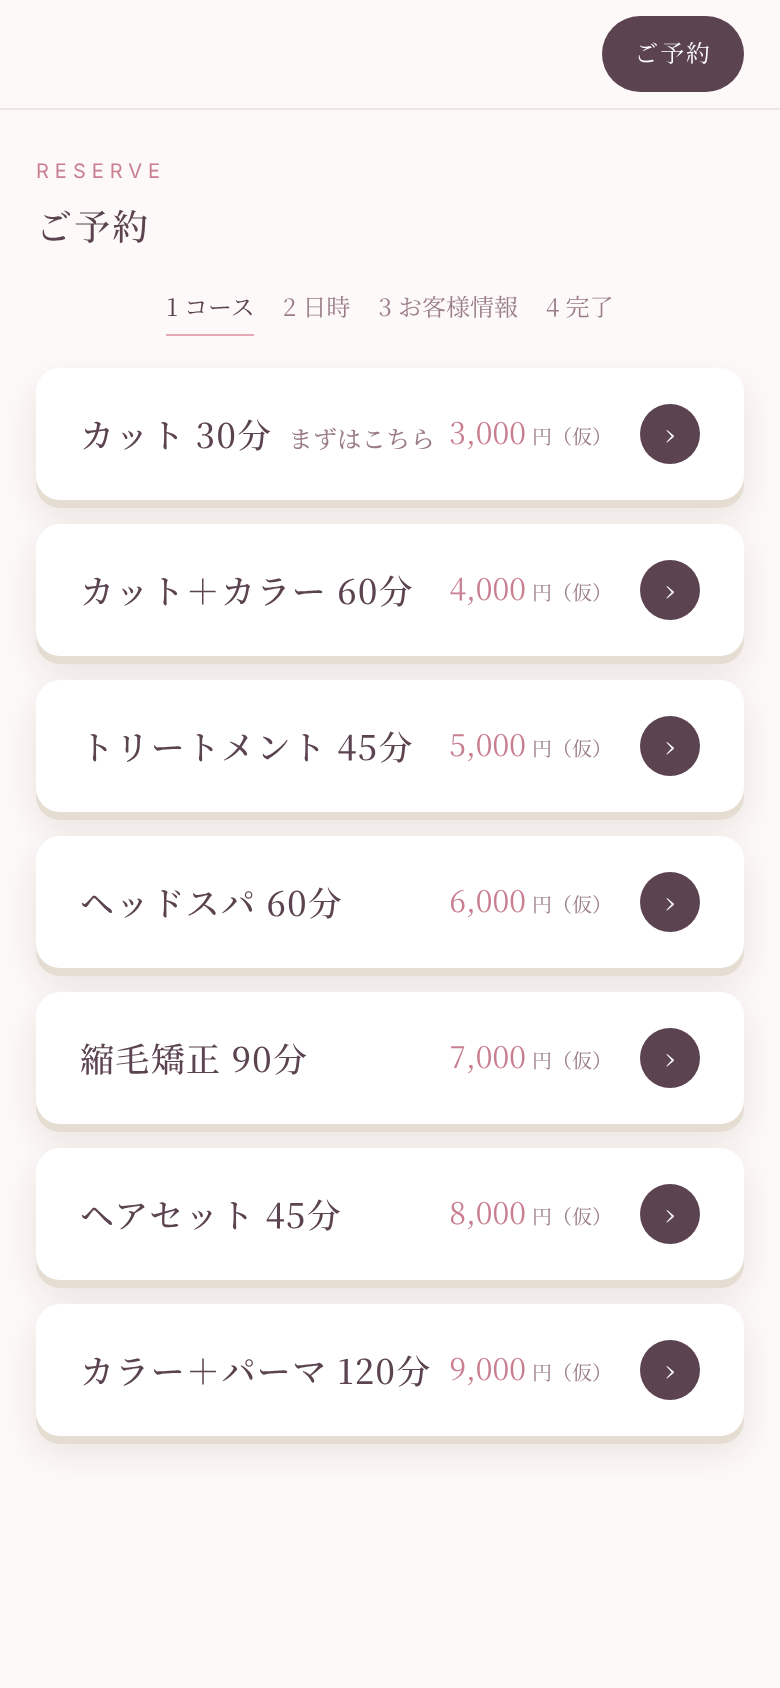
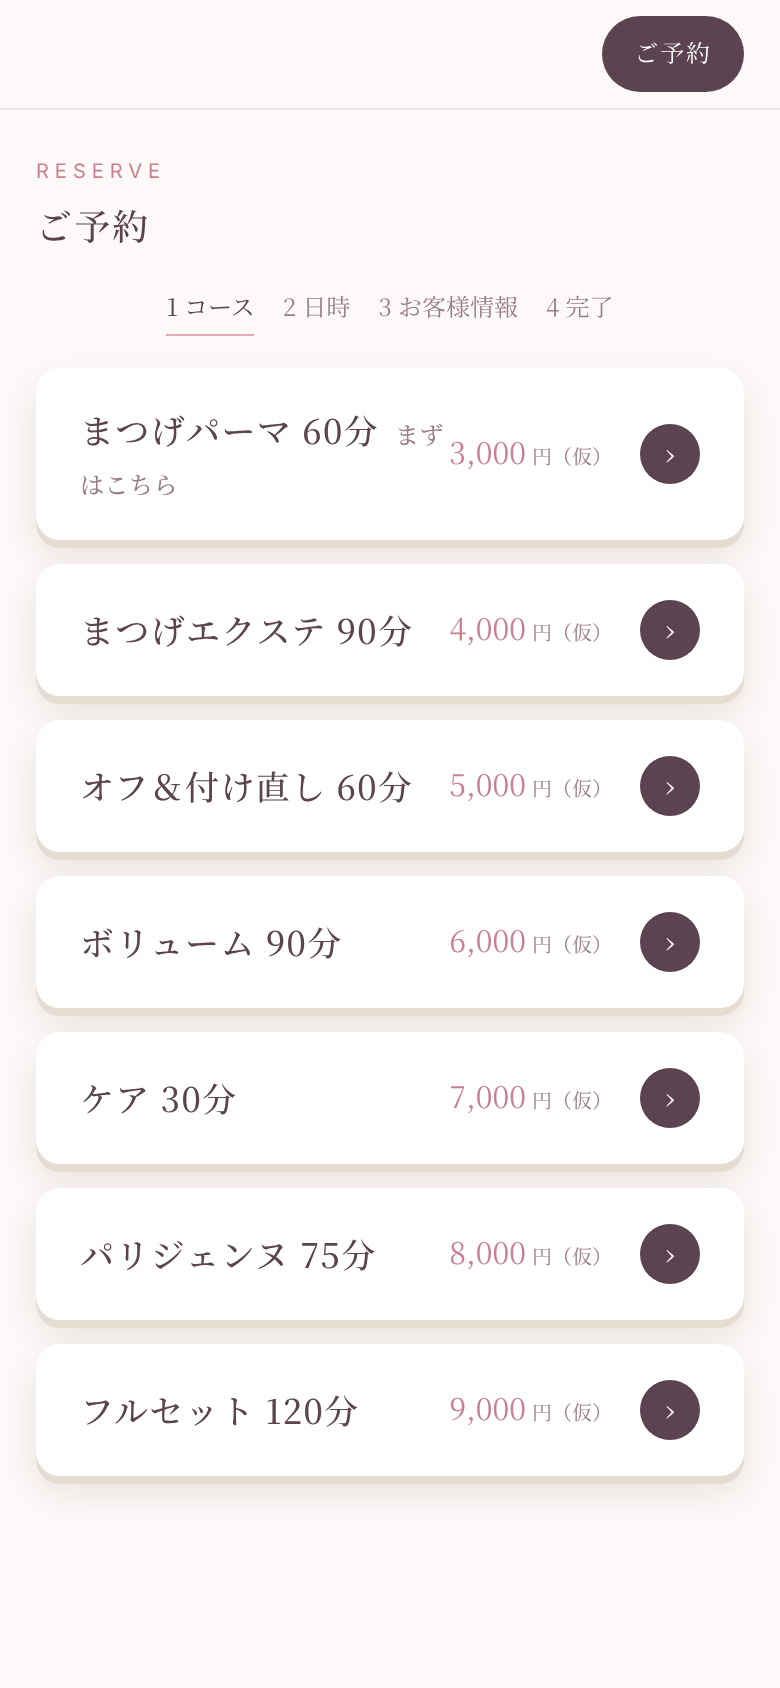
ヒーローを前のデザインに戻し、業種メニューを画面と一致させる
Claude-Session: https://claude.ai/code/session_01BNgnZGZcBYmD2Z2Ls9jJmq

Changed region(s): [[0.0615, 0.2156, 0.9538, 0.8934]]

diff --git a/index.html b/index.html
@@ -56,23 +56,49 @@ section{padding:96px 0}
 .ind-tabs{display:flex;border-bottom:1px solid var(--line);margin-bottom:0}
 .ind-tabs button{flex:1;background:none;border:0;border-bottom:3px solid transparent;padding:16px 8px;font:inherit;font-size:15px;font-weight:700;color:var(--sub);cursor:pointer;letter-spacing:.04em}
 .ind-tabs button.on{color:var(--plum);border-bottom-color:var(--rose)}
-.menu-panel{display:grid;grid-template-columns:400px 1fr;background:var(--paper)}
-.menu-panel .shot{background:var(--plum);padding:30px;display:flex;align-items:center;justify-content:center}
-.menu-panel .shot img{width:100%;max-width:300px;height:560px;object-fit:cover;object-position:top;border:6px solid #3d2c38;border-radius:28px;box-shadow:0 20px 40px rgba(0,0,0,.35)}
-.menu-body{padding:38px 44px 44px}
-.catnav{display:flex;gap:8px;overflow-x:auto;padding-bottom:6px;margin-bottom:28px;scrollbar-width:none}
+.menu-panel{display:grid;grid-template-columns:330px 1fr;gap:40px;align-items:stretch}
+.menu-panel .shot{background:#fff;border-radius:26px;box-shadow:0 24px 50px rgba(78,58,69,.12);padding:14px;overflow:hidden}
+.menu-panel .shot img{width:100%;height:auto;display:block;border-radius:18px}
+.menu-body{background:#fff;border-radius:26px;box-shadow:0 24px 50px rgba(78,58,69,.08);padding:30px 36px;display:flex;flex-direction:column}
+.catnav-x{display:flex;gap:8px;overflow-x:auto;padding-bottom:6px;margin-bottom:28px;scrollbar-width:none}
 .catnav::-webkit-scrollbar{display:none}
 .catnav a{flex:0 0 auto;text-decoration:none;font-size:13px;font-weight:700;padding:8px 16px;border:1px solid var(--plum);color:var(--plum);white-space:nowrap}
 .catnav a:hover{background:var(--plum);color:var(--cream-t)}
 .cat{margin-bottom:30px}
 .cat h3{font-family:"Noto Serif JP",serif;font-size:19px;color:var(--plum);padding-bottom:8px;border-bottom:2px solid var(--plum);margin-bottom:6px;display:flex;justify-content:space-between;align-items:baseline}
 .cat h3 small{font-family:"Noto Sans JP",sans-serif;font-size:12px;color:var(--sub);font-weight:500}
-.item{display:flex;justify-content:space-between;gap:20px;padding:13px 0;border-bottom:1px solid var(--line)}
+.menu-body .list{flex:1;display:flex;flex-direction:column;justify-content:space-between}
+.item{display:flex;justify-content:space-between;align-items:center;gap:20px;padding:12px 0;border-bottom:1px solid var(--line)}
+.item:last-child{border-bottom:0}
+.item .n small:first-child{color:#c97f90;font-size:11px;letter-spacing:.08em;display:block;font-weight:700}
 .item .n{font-weight:700;font-size:15px}
 .item .n small{display:block;font-weight:500;color:var(--sub);font-size:12px;margin-top:2px}
 .item .p{font-weight:700;font-size:16px;white-space:nowrap;color:var(--plum)}
 .item .p span{font-size:12px;font-weight:500;color:var(--sub);margin-left:2px}
-.note{margin-top:22px;padding:16px 18px;background:var(--rose-s);font-size:13px;color:var(--plum);line-height:1.8}
+.note{margin-top:18px;padding:16px 18px;background:var(--rose-s);font-size:13px;color:var(--plum);line-height:1.8}
+
+
+/* 紹介ページ冒頭（パステル） */
+.hx{background:var(--cream);padding:76px 0 60px;position:relative;overflow:hidden;border-bottom:1px solid var(--line)}
+.hx-blob{position:absolute;border-radius:50%;filter:blur(40px);opacity:.75;z-index:0;pointer-events:none}
+.hx-blob.a{width:420px;height:420px;background:#fbe3e8;top:-120px;right:-100px}
+.hx-blob.b{width:300px;height:300px;background:#ece4f3;bottom:-60px;left:-80px}
+.hx-ring{position:absolute;border:2px solid rgba(201,127,144,.25);border-radius:50%;z-index:0;pointer-events:none}
+.hx-dots{position:absolute;width:140px;height:140px;background-image:radial-gradient(rgba(201,127,144,.35) 2px,transparent 2px);background-size:16px 16px;z-index:0;pointer-events:none}
+.hx-grid{display:grid;grid-template-columns:1fr 1fr;gap:40px;align-items:center;position:relative;z-index:2}
+.hx-kicker{display:inline-block;font-size:13px;font-weight:700;letter-spacing:.06em;color:#c97f90;background:#fff;padding:8px 16px;border-radius:999px;box-shadow:0 6px 16px rgba(78,58,69,.06)}
+.hx-h1{font-family:"Noto Serif JP",serif;font-size:clamp(36px,5vw,58px);line-height:1.2;margin:22px 0 18px;color:var(--ink)}
+.hx-h1 mark{background:linear-gradient(transparent 58%,#f7d3dc 58%);color:inherit;padding:0 4px}
+.hx-lead{font-size:16px;color:var(--sub);max-width:520px}
+.hx-phones{position:relative;height:520px}
+.hx-ph{position:absolute;width:230px;height:500px;border-radius:34px;border:8px solid #fff;box-shadow:0 30px 60px rgba(78,58,69,.18);overflow:hidden;background:#fff}
+.hx-ph img{width:100%;height:100%;object-fit:cover;object-position:top}
+.hx-ph.h1{left:0;top:40px;transform:rotate(-6deg)}
+.hx-ph.h2{left:150px;top:0;z-index:2;width:250px;height:520px}
+.hx-ph.h3{left:300px;top:70px;transform:rotate(6deg)}
+.hx-sticker{position:absolute;background:#fff;border-radius:18px;padding:12px 16px;font-weight:700;font-size:15px;box-shadow:0 14px 30px rgba(78,58,69,.12);z-index:4}
+.hx-sticker b{color:#c97f90;font-size:22px}
+@media (max-width:900px){.hx-grid{grid-template-columns:1fr}.hx-phones{height:460px}}
 
 /* 管理画面（ハイコントラスト） */
 .dark{background:var(--plum);color:var(--cream-t)}
@@ -125,9 +151,9 @@ footer{background:var(--plum);color:#b9a8b1;font-size:12px;padding:28px 0;text-a
 @media (max-width:900px){
   .hero h1{white-space:normal}
   nav.bar ul{display:none}
-  .hero-grid,.cost-grid,.shots,.menu-panel{grid-template-columns:1fr}
+  .cost-grid,.shots,.menu-panel{grid-template-columns:1fr}
+  .menu-panel .shot{max-width:330px;margin:0 auto}
   .hero figure img{height:420px}
-  .menu-panel .shot img{height:460px}
   .reasons,.flow{grid-template-columns:1fr}
   .reasons div + div,.flow div + div{padding-left:0;border-left:0;border-top:1px solid var(--line);margin-top:24px}
   .menu-body{padding:28px 22px}
@@ -150,21 +176,27 @@ footer{background:var(--plum);color:#b9a8b1;font-size:12px;padding:28px 0;text-a
   </div>
 </nav>
 
-<header class="hero">
-  <div class="wrap hero-grid">
+<header class="hero hx">
+  <div class="hx-blob a"></div><div class="hx-blob b"></div>
+  <div class="hx-ring" style="width:260px;height:260px;top:90px;left:44%"></div>
+  <div class="hx-dots" style="top:60px;right:40px"></div>
+  <div class="wrap hx-grid">
     <div>
-      <div class="eyebrow">BEAUTY · NAIL · RELAX · EYELASH</div>
-      <h1 class="serif">予約も、お店の管理も。<br><em>落ち着いて</em><br>任せられます。</h1>
-      <p class="lead">お客様はスマホでいつでも予約でき、お店は予約・来院・顧客・売上をひとつの画面で確認できます。大手予約サイトより費用を抑えて、すぐに始められます。</p>
-      <div class="cta">
+      <span class="hx-kicker">美容院・ネイル・リラク・まつげサロンへ</span>
+      <h1 class="hx-h1">お客様は<mark>スマホ</mark>で予約<br>お店は<mark>すっきり</mark><br>管理。</h1>
+      <p class="hx-lead">ネット予約・来院の記録・顧客リスト・売上の確認まで、ひとつの仕組みで。大手予約サイトよりコストを抑えて、すぐに使えます。</p>
+      <div class="cta" style="display:flex;gap:14px;flex-wrap:wrap;margin-top:30px">
         <a class="btn" href="#menu">業種別のメニューを見る</a>
         <a class="btn line" href="mailto:hikari.partners.gifu@gmail.com">お問い合わせ</a>
       </div>
     </div>
-    <figure>
-      <img src="images/b_menu_beauty.png" alt="美容室メニューの予約画面">
-      <figcaption>お客様の予約画面（美容室の例）</figcaption>
-    </figure>
+    <div class="hx-phones">
+      <div class="hx-ph h1"><img src="images/b_menu_beauty.png" alt="美容室メニューの予約画面"></div>
+      <div class="hx-ph h2"><img src="images/b_menu_nail.png" alt="ネイルメニューの予約画面"></div>
+      <div class="hx-ph h3"><img src="images/b_menu_lash.png" alt="アイラッシュメニューの予約画面"></div>
+      <div class="hx-sticker" style="left:-10px;bottom:30px;transform:rotate(-4deg)"><b>24h</b> ネット予約</div>
+      <div class="hx-sticker" style="right:-6px;top:10px;transform:rotate(5deg)">売上・来院を<b>一目で</b></div>
+    </div>
   </div>
 </header>
 
@@ -272,39 +304,48 @@ footer{background:var(--plum);color:#b9a8b1;font-size:12px;padding:28px 0;text-a
 
 <script>
 const IND = [
-  { img:'images/b_menu_beauty.png', name:'美容室', cats:[
-    {k:'cut', t:'カット', items:[['カット','ご希望のスタイルに合わせて',4000],['カット＋シャンプー','仕上がりまで丁寧に',4500],['前髪カット','',1000],['眉カット','',1000]]},
-    {k:'color', t:'カラー', items:[['リタッチカラー','生え際の気になる部分だけ','4,800'],['全体カラー','髪の長さで料金が変わります',5500],['ハイライト','明るさと立体感を',6000]]},
-    {k:'perm', t:'パーマ', items:[['パーマ','シャンプー・ブロー込み',7500],['ポイントパーマ','気になる部分だけ',6000]]},
-    {k:'treat', t:'トリートメント', items:[['ダブルリペアトリートメント','髪のダメージケアに',2200],['髪質改善トリートメント','うるおいと艶を長く',4400]]},
-    {k:'other', t:'その他', items:[['シャンプーブロー','',2000]]}
-  ], note:'料金は税込・仮の表示です。土日祝は＋300円（例）。' },
-  { img:'images/b_menu_nail.png', name:'ネイル', cats:[
-    {k:'color', t:'カラー', items:[['ワンカラー','ベーシックな一色',4000],['ジェルネイル','艶と持ちのよい仕上がり',5500],['フレンチ','清潔感のある定番',6000]]},
-    {k:'art', t:'アート', items:[['ワンポイントアート','1本から',500],['フルアート','季節やイベントに',8000]]},
-    {k:'care', t:'オフ・ケア', items:[['ジェルオフ','他店からのオフもお受けします',1000],['甘皮ケア','',1500]]},
-    {k:'foot', t:'フット', items:[['フットケア','角質・甘皮のケア',4000],['フットジェル','',5000]]}
-  ], note:'料金は税込・仮の表示です。デザインにより料金が変わる場合があります。' },
-  { img:'images/b_menu_relax.png', name:'リラクゼーション', cats:[
-    {k:'body', t:'ボディ', items:[['リラクゼーション 60分','全身をゆっくりほぐします',6000],['リラクゼーション 90分','',8500],['ヘッドケア 45分','頭・首・肩を中心に',4500]]},
-    {k:'aroma', t:'アロマ', items:[['アロマ 60分','香りとともに',6500],['アロマ 90分','',9000]]},
-    {k:'part', t:'部分', items:[['肩・首 30分','デスクワークの方に',3500]]},
-    {k:'foot', t:'フット', items:[['フット 40分','足もとから整えます',4000]]}
+  { img:'images/b_menu_beauty.png', name:'美容室', items:[
+    ['カット 30分','カット','ご希望のスタイルに合わせて'],
+    ['カット＋カラー 60分','カラー','カットと全体カラーのセット'],
+    ['トリートメント 45分','トリートメント','髪のダメージケア'],
+    ['ヘッドスパ 60分','スパ','頭皮からすっきり整えます'],
+    ['縮毛矯正 90分','縮毛矯正','くせを抑えてまとまりやすく'],
+    ['ヘアセット 45分','セット','イベントや式典のスタイリング'],
+    ['カラー＋パーマ 120分','複合','カラーとパーマをまとめて']
   ], note:'料金は税込・仮の表示です。' },
-  { img:'images/b_menu_lash.png', name:'アイラッシュ', cats:[
-    {k:'lash', t:'まつげ', items:[['パリジェンヌ 60分','自然なカールに',6500],['まつげエクステ 90分','ナチュラルからボリュームまで',8000],['ボリューム 90分','',9500]]},
-    {k:'off', t:'オフ・付け直し', items:[['オフ','',1000],['付け直し 60分','',6000]]},
-    {k:'care', t:'ケア', items:[['まつげ美容液ケア','',2500]]}
+  { img:'images/b_menu_nail.png', name:'ネイル', items:[
+    ['ワンカラー 45分','カラー','ベーシックな一色'],
+    ['ジェル 60分','ジェル','艶と持ちのよい仕上がり'],
+    ['アート 75分','アート','デザインを一本ずつ'],
+    ['ケア 30分','ケア','甘皮と爪のケア'],
+    ['フット 60分','フット','足もとからすっきり'],
+    ['オフ 30分','オフ','他店からのオフもお受けします'],
+    ['ネイル＋まつげ 90分','複合','ネイルとまつげをまとめて']
+  ], note:'料金は税込・仮の表示です。' },
+  { img:'images/b_menu_relax.png', name:'リラクゼーション', items:[
+    ['ライト 30分','ライト','肩・首を中心に短時間で'],
+    ['ボディ 60分','ボディ','全身をゆっくりほぐします'],
+    ['リラックス 90分','リラックス','じっくり心身を休める'],
+    ['アロマ 75分','アロマ','香りとともに'],
+    ['ヘッド 45分','ヘッド','頭・首・肩のケア'],
+    ['ストレッチ 60分','ストレッチ','体の可動域を広げます'],
+    ['フルコース 120分','フルコース','全身と足もとまで']
+  ], note:'料金は税込・仮の表示です。' },
+  { img:'images/b_menu_lash.png', name:'アイラッシュ', items:[
+    ['まつげパーマ 60分','パーマ','自然なカールに'],
+    ['まつげエクステ 90分','エクステ','ナチュラルからボリュームまで'],
+    ['オフ＆付け直し 60分','付け直し','オフと付け直しをまとめて'],
+    ['ボリューム 90分','ボリューム','華やかな仕上がり'],
+    ['ケア 30分','ケア','まつげの美容液ケア'],
+    ['パリジェンヌ 75分','パリジェンヌ','上向きの自然なカール'],
+    ['フルセット 120分','フルセット','オフ・付け直し・ケアまで']
   ], note:'料金は税込・仮の表示です。付け直しの期間により料金が変わります。' }
 ];
+const PRICES=[3000,4000,5000,6000,7000,8000,9000];
 const tabs=[...document.querySelectorAll('#tabs button')];
 function renderMenu(d){
-  const nav='<div class="catnav">'+d.cats.map(c=>'<a href="#cat-'+c.k+'">'+c.t+'</a>').join('')+'</div>';
-  const body=d.cats.map(c=>'<div class="cat" id="cat-'+c.k+'"><h3>'+c.t+'</h3>'+c.items.map(i=>{
-    const price=typeof i[2]==='number'?i[2].toLocaleString():i[2];
-    return '<div class="item"><div class="n">'+i[0]+(i[1]?'<small>'+i[1]+'</small>':'')+'</div><div class="p">'+price+'<span>円</span></div></div>';
-  }).join('')+'</div>').join('');
-  document.getElementById('menuBody').innerHTML=nav+body+'<div class="note">'+d.note+'</div>';
+  const rows=d.items.map((it,i)=>'<div class="item"><div class="n"><small>'+it[1]+'</small>'+it[0]+'<small>'+it[2]+'</small></div><div class="p">'+PRICES[i].toLocaleString()+'<span>円</span></div></div>').join('');
+  document.getElementById('menuBody').innerHTML='<div class="list">'+rows+'</div><div class="note">'+d.note+'</div>';
 }
 tabs.forEach(b=>b.addEventListener('click',()=>{
   const d=IND[+b.dataset.i];
